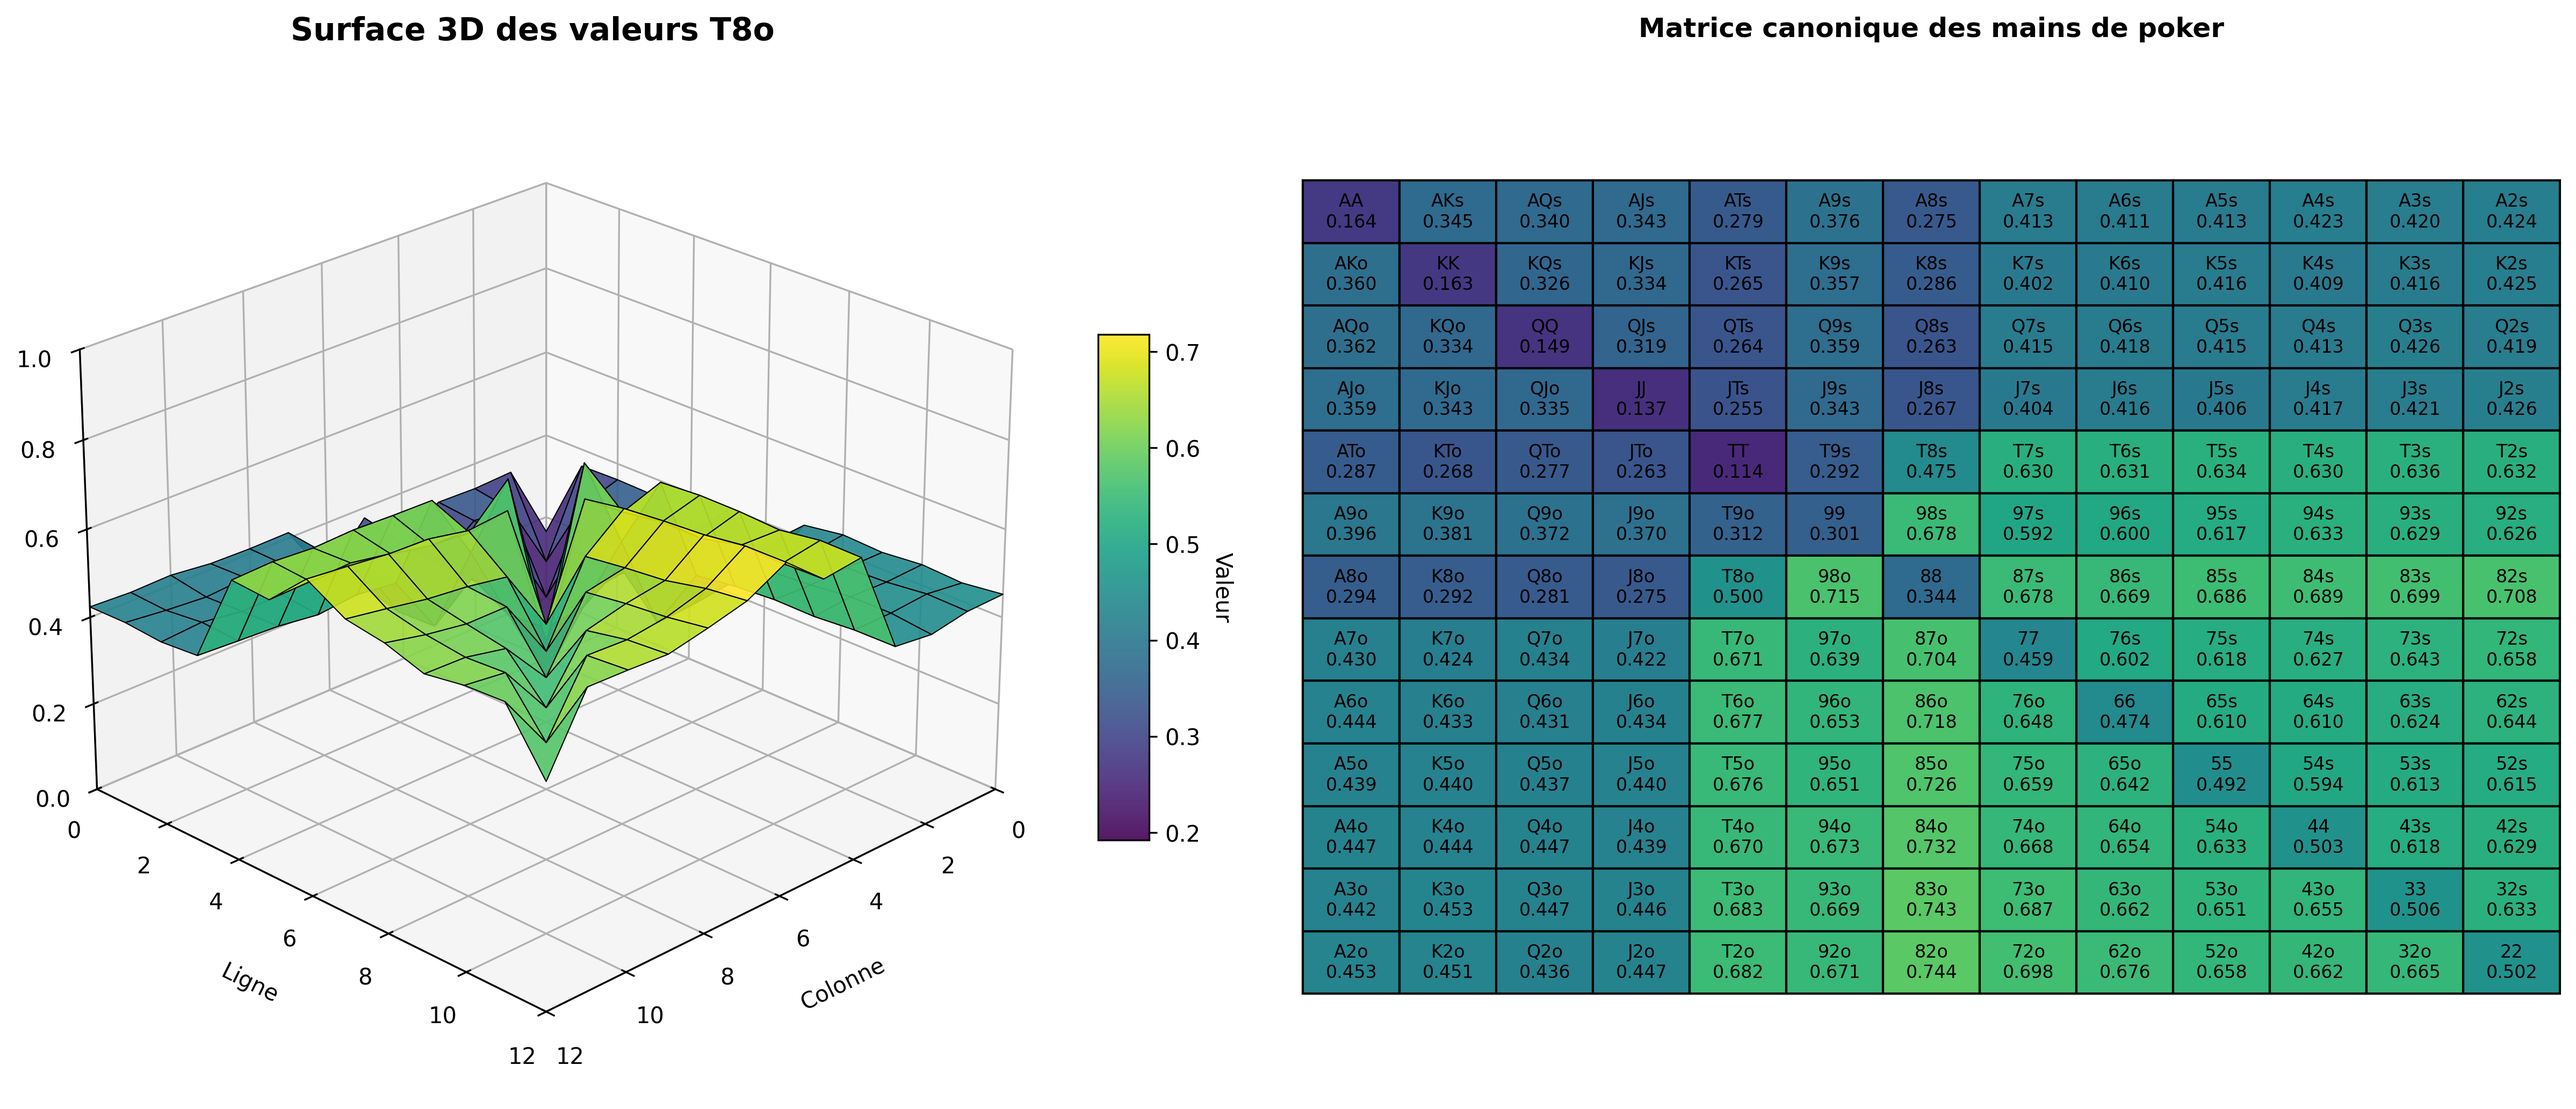
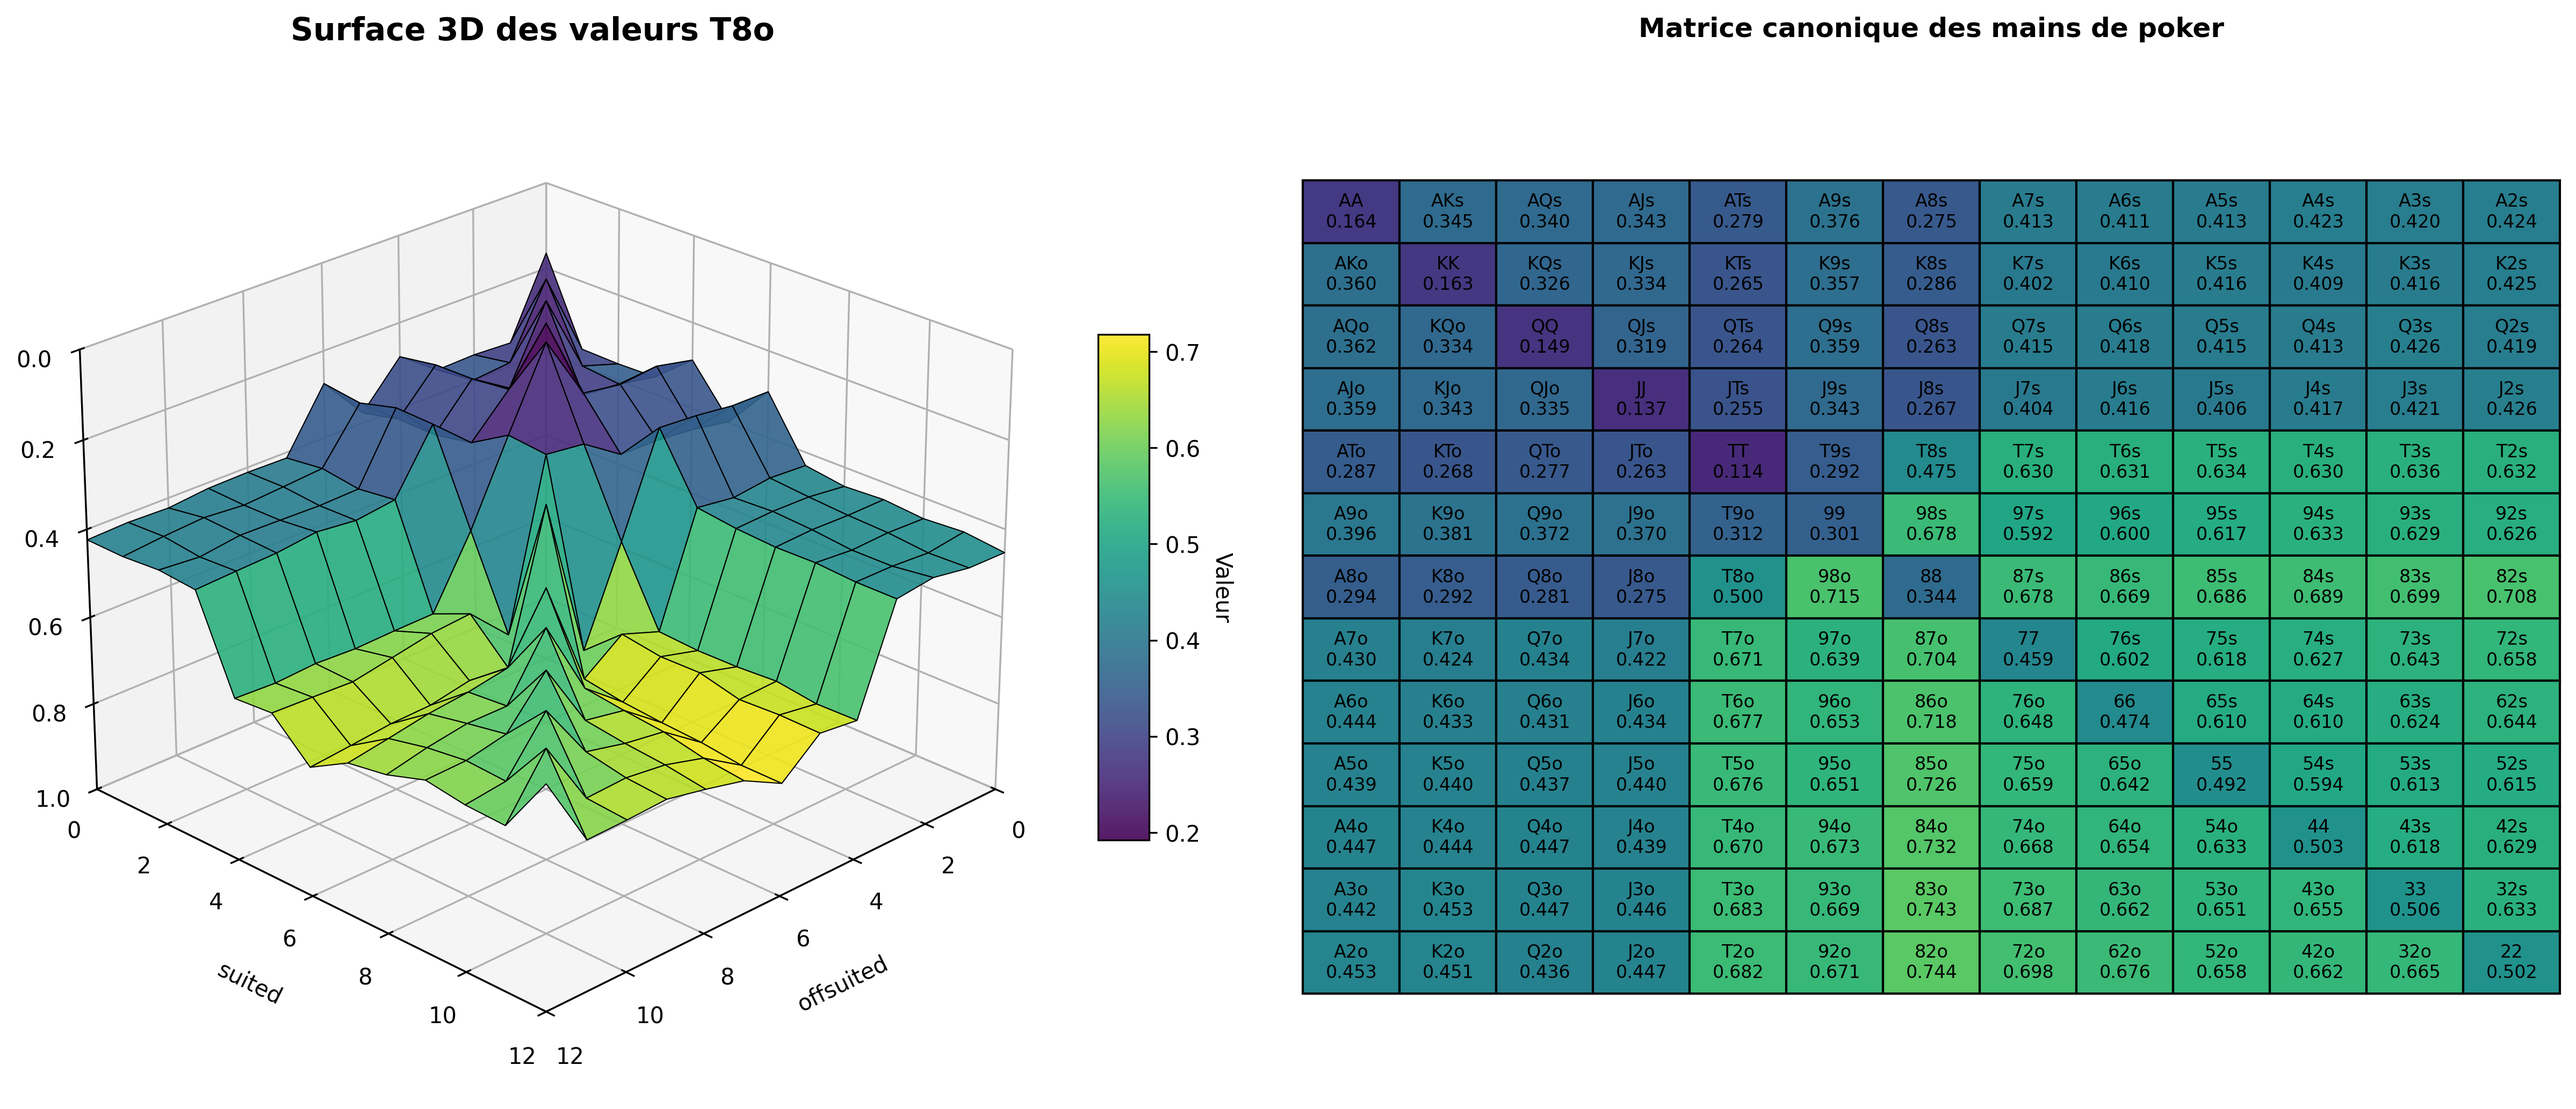
Update 3D poker surface labels and z-axis
Reverse the z-axis limits (set_zlim from 0..1 to 1..0) and replace French axis labels ('Colonne', 'Ligne') with 'offsuited' and 'suited' in plot_poker_surface_3d_for_hero_hand. Corresponding plot assets (plt, png) and the compiled .pyc were updated to reflect the visualization changes.

Changed region(s): [[0.0311, 0.2478, 0.404, 0.7744], [0.3107, 0.8674, 0.3418, 0.8984], [0.0932, 0.8674, 0.1243, 0.8984]]

diff --git a/src/data_visualisation/data_visualisation.py b/src/data_visualisation/data_visualisation.py
@@ -68,10 +68,10 @@ def plot_poker_surface_3d_for_hero_hand(equity_matrix_slice, base_dir, hand_name
 
     ax1.set_xlim(0, 12)
     ax1.set_ylim(0, 12)
-    ax1.set_zlim(0, 1) 
+    ax1.set_zlim(1, 0) 
 
-    ax1.set_xlabel('Colonne', fontsize=10, labelpad=10)
-    ax1.set_ylabel('Ligne', fontsize=10, labelpad=10)
+    ax1.set_xlabel('offsuited', fontsize=10, labelpad=10)
+    ax1.set_ylabel('suited', fontsize=10, labelpad=10)
     ax1.set_zlabel('Valeur', fontsize=10, labelpad=10)
 
     # Titre
